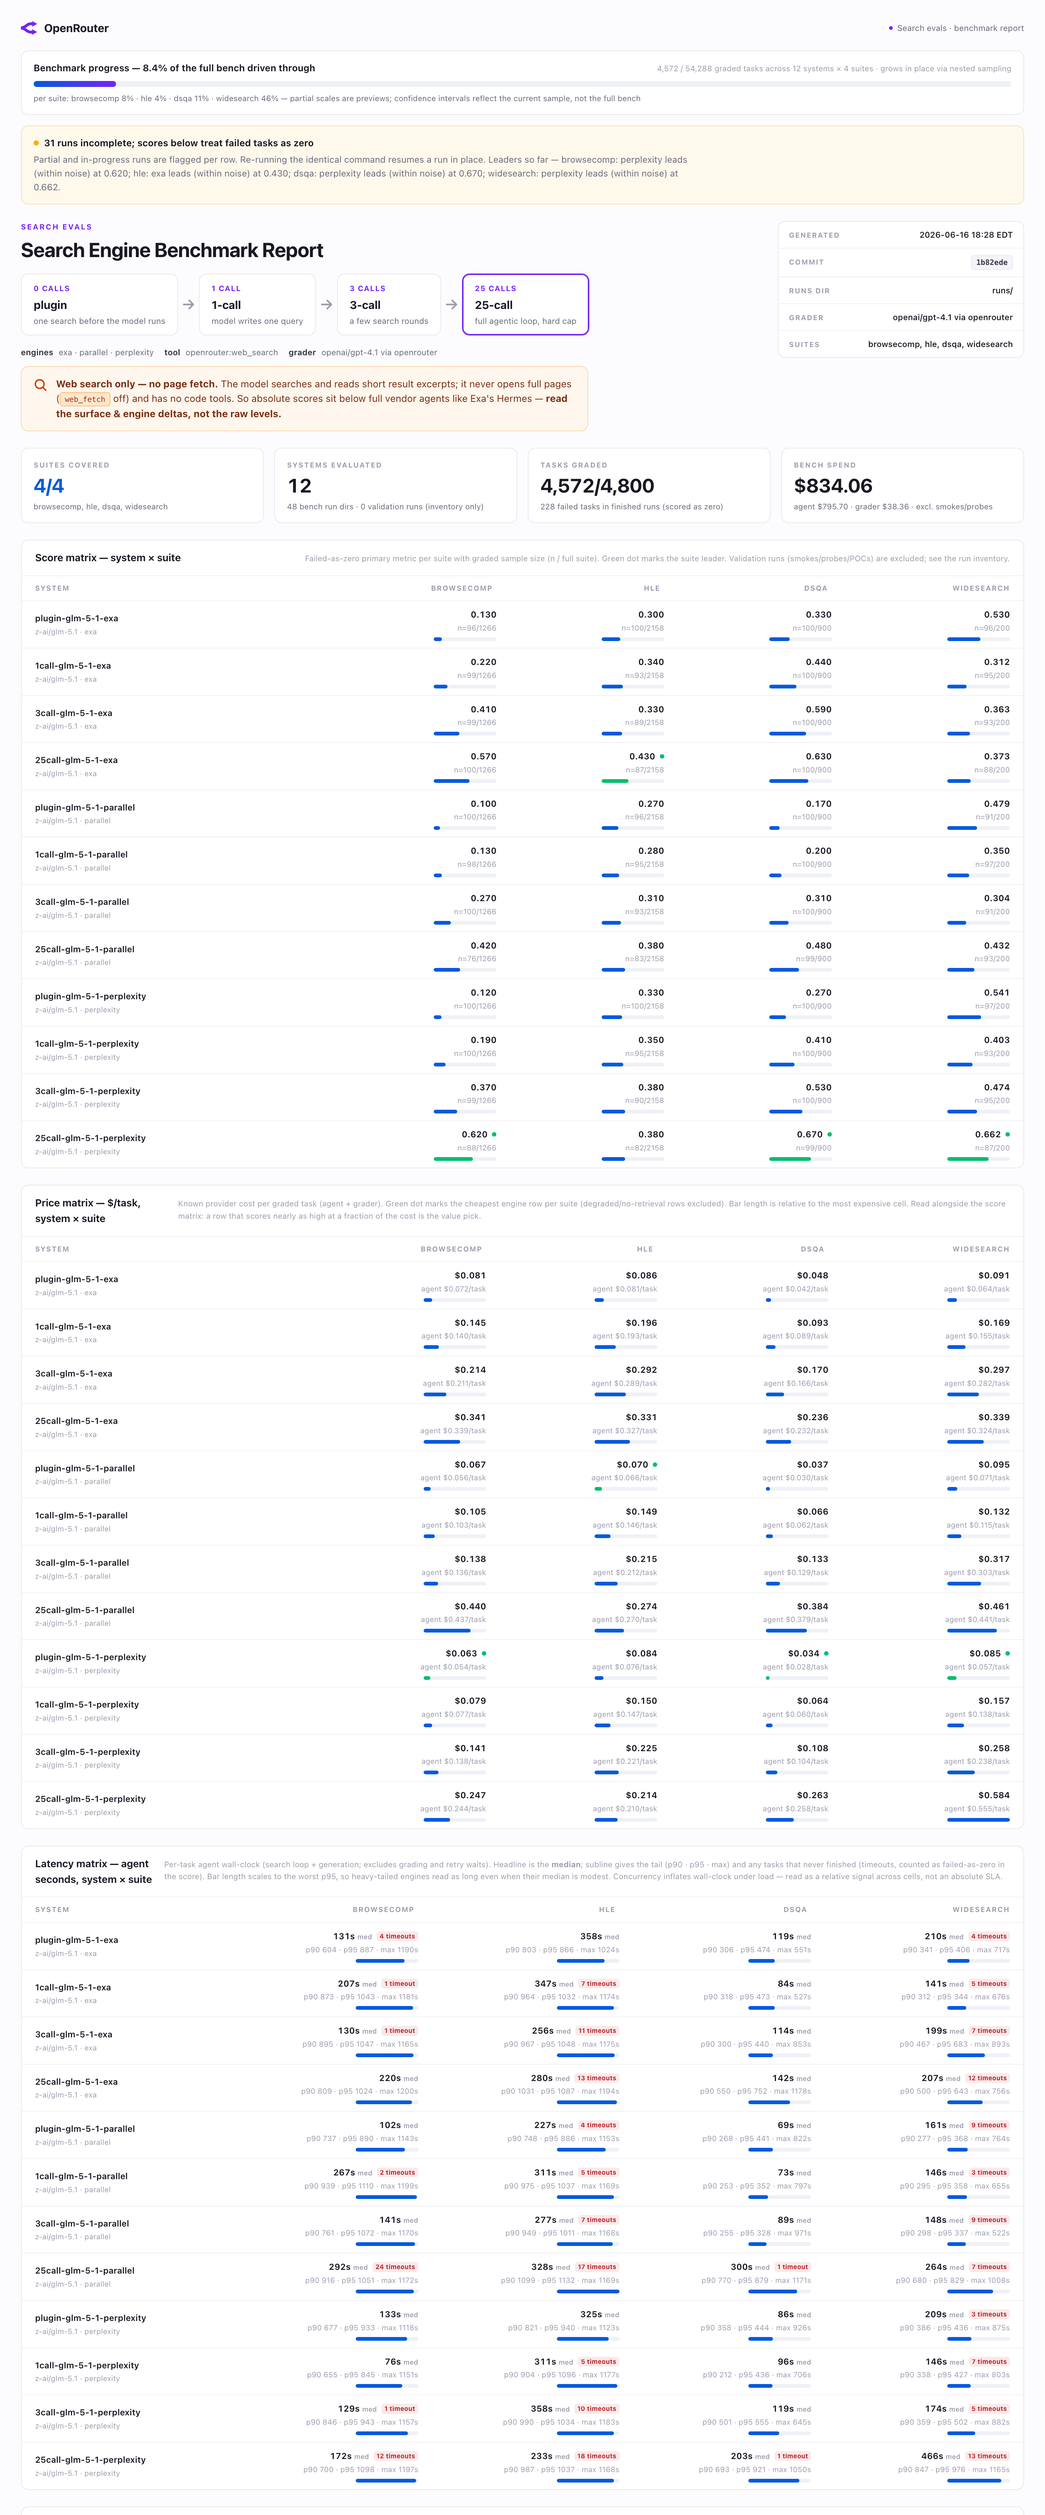
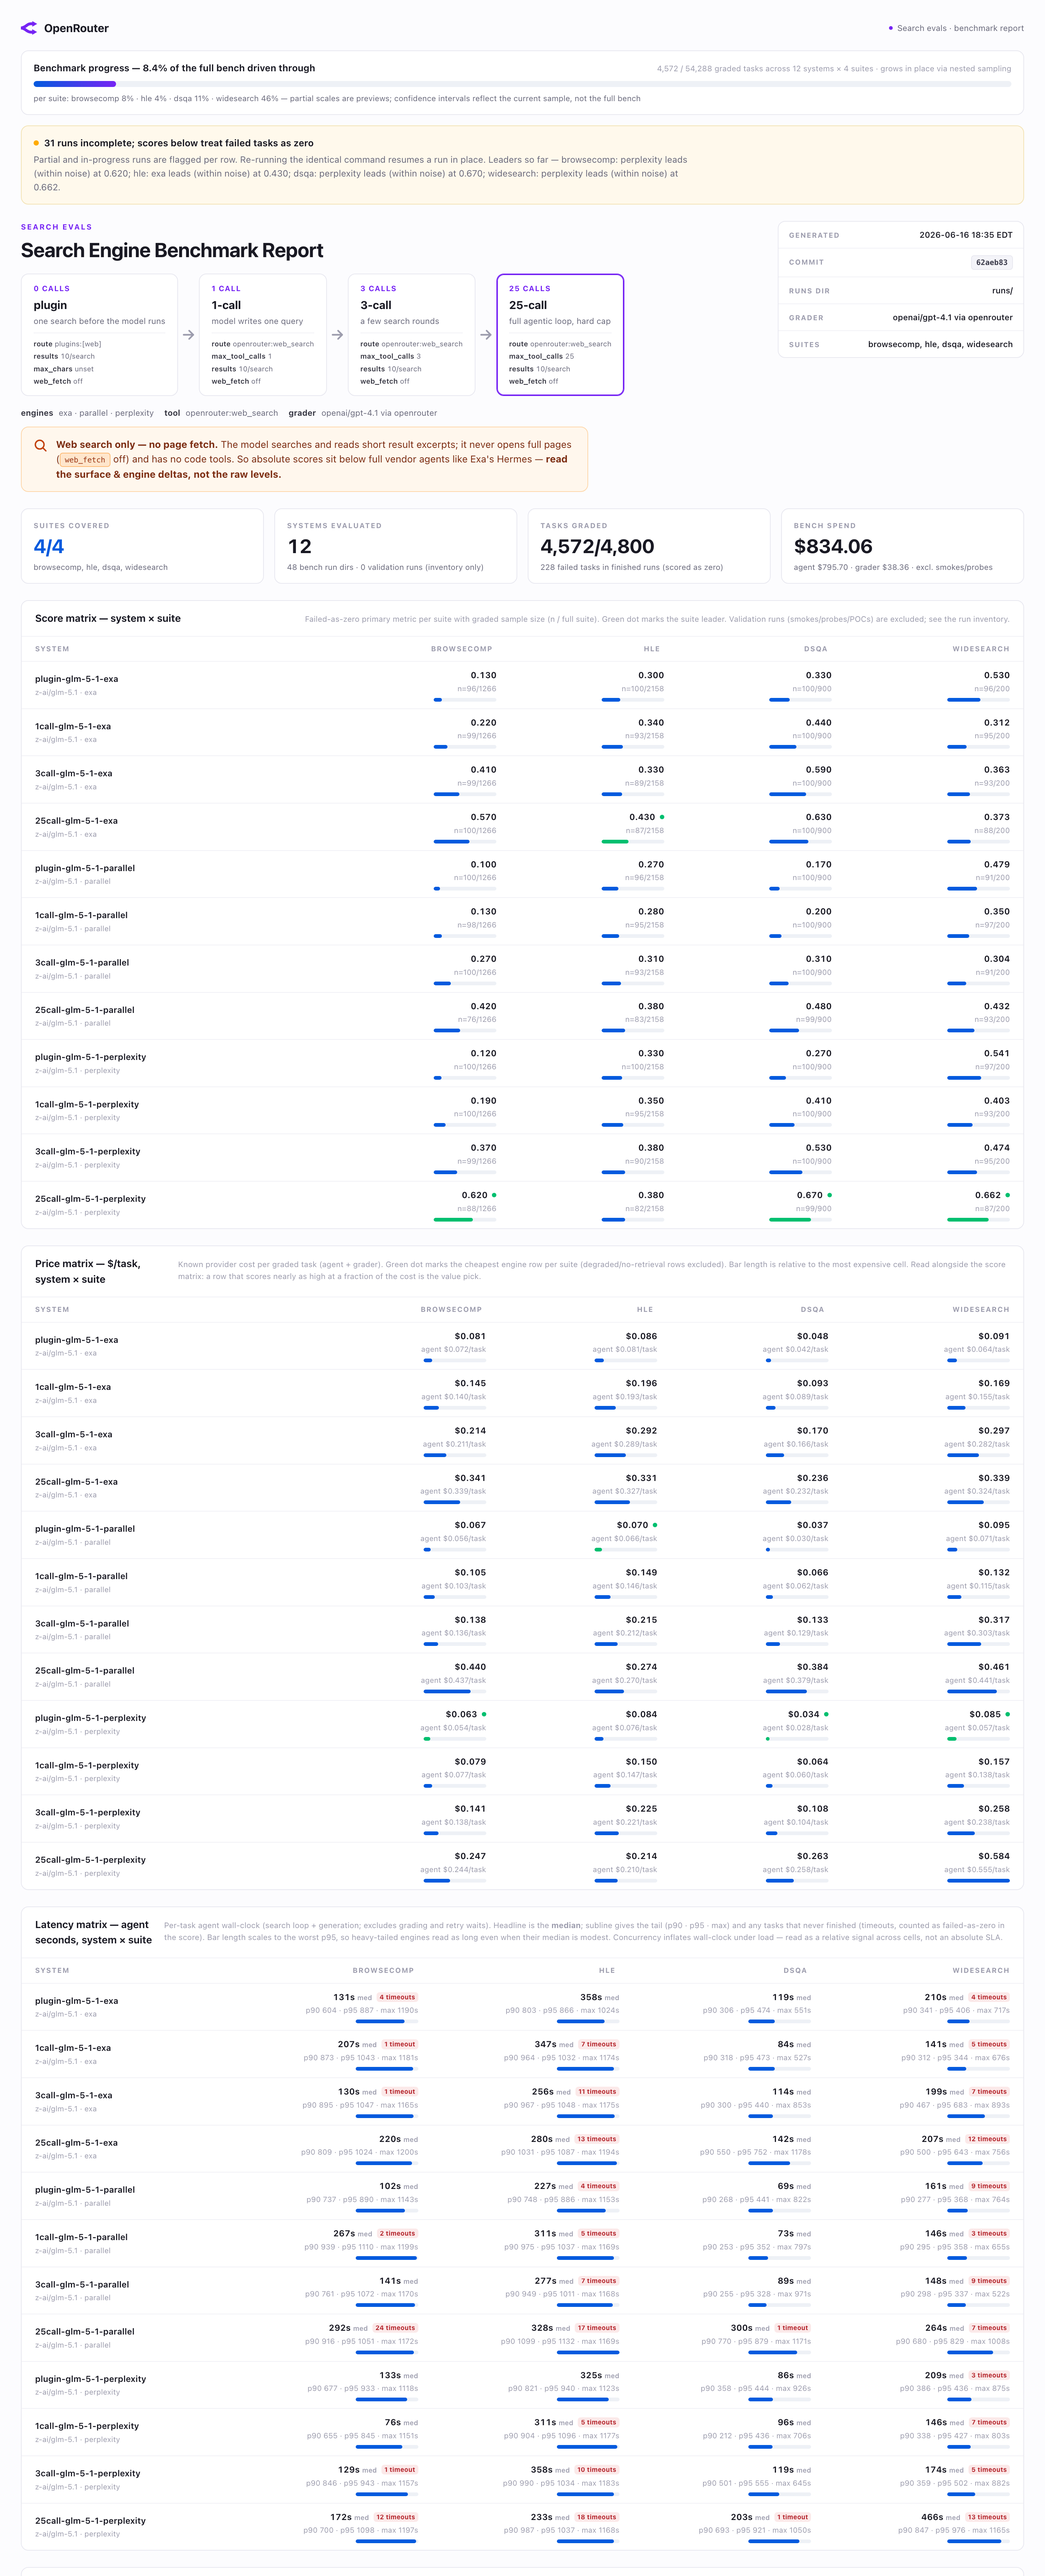
Show per-rung request params under each surface in the ladder
Each ladder rung now carries the actual request payload it sends: route
(plugins:[web] vs openrouter:web_search), max_tool_calls, results/search,
web_fetch off, max_chars unset. Makes the ladder self-documenting — what
changes between surfaces (route + call cap) and what's held constant. Values
match the run_config.json the runs actually used.

diff --git a/reports/latest/benchmark-report.html b/reports/latest/benchmark-report.html
@@ -47,6 +47,9 @@ h1{font-size:27px;font-weight:700;letter-spacing:-.02em;line-height:1.18;margin-
 .rung .name{font-size:15px;font-weight:700;color:var(--text);letter-spacing:-.01em}
 .rung .desc{font-size:11px;color:var(--muted);margin-top:3px;line-height:1.3}
 .rung .calls{font-size:10px;font-weight:700;color:var(--grape);letter-spacing:.08em;text-transform:uppercase;margin-bottom:3px}
+.rung .params{margin-top:8px;padding-top:7px;border-top:1px solid var(--border-soft);display:flex;flex-direction:column;gap:2px}
+.rung .params .pp{font-size:9.5px;color:var(--muted);font-variant-numeric:tabular-nums;white-space:nowrap}
+.rung .params .pp b{color:#33333F;font-weight:600}
 .ladder .arrow{display:flex;align-items:center;color:var(--faint);flex:0 0 auto;padding:0 3px}
 .ladder .arrow svg{width:22px;height:22px}
 .rung.peak{border-color:var(--grape);box-shadow:0 0 0 1px var(--grape) inset}
@@ -140,13 +143,17 @@ white-space:pre-wrap;word-break:break-all}
     <div class="eyebrow">Search evals</div>
     <h1>Search Engine Benchmark Report</h1>
     <div class="ladder">
-      <div class="rung"><div class="calls">0 calls</div><div class="name">plugin</div><div class="desc">one search before the model runs</div></div>
+      <div class="rung"><div class="calls">0 calls</div><div class="name">plugin</div><div class="desc">one search before the model runs</div>
+        <div class="params"><span class="pp"><b>route</b> plugins:[web]</span><span class="pp"><b>results</b> 10/search</span><span class="pp"><b>max_chars</b> unset</span><span class="pp"><b>web_fetch</b> off</span></div></div>
       <div class="arrow"><svg viewBox="0 0 24 24" fill="none" stroke="currentColor" stroke-width="2.4" stroke-linecap="round" stroke-linejoin="round" aria-hidden="true"><path d="M5 12h14M13 6l6 6-6 6"/></svg></div>
-      <div class="rung"><div class="calls">1 call</div><div class="name">1-call</div><div class="desc">model writes one query</div></div>
+      <div class="rung"><div class="calls">1 call</div><div class="name">1-call</div><div class="desc">model writes one query</div>
+        <div class="params"><span class="pp"><b>route</b> openrouter:web_search</span><span class="pp"><b>max_tool_calls</b> 1</span><span class="pp"><b>results</b> 10/search</span><span class="pp"><b>web_fetch</b> off</span></div></div>
       <div class="arrow"><svg viewBox="0 0 24 24" fill="none" stroke="currentColor" stroke-width="2.4" stroke-linecap="round" stroke-linejoin="round" aria-hidden="true"><path d="M5 12h14M13 6l6 6-6 6"/></svg></div>
-      <div class="rung"><div class="calls">3 calls</div><div class="name">3-call</div><div class="desc">a few search rounds</div></div>
+      <div class="rung"><div class="calls">3 calls</div><div class="name">3-call</div><div class="desc">a few search rounds</div>
+        <div class="params"><span class="pp"><b>route</b> openrouter:web_search</span><span class="pp"><b>max_tool_calls</b> 3</span><span class="pp"><b>results</b> 10/search</span><span class="pp"><b>web_fetch</b> off</span></div></div>
       <div class="arrow"><svg viewBox="0 0 24 24" fill="none" stroke="currentColor" stroke-width="2.4" stroke-linecap="round" stroke-linejoin="round" aria-hidden="true"><path d="M5 12h14M13 6l6 6-6 6"/></svg></div>
-      <div class="rung peak"><div class="calls">25 calls</div><div class="name">25-call</div><div class="desc">full agentic loop, hard cap</div></div>
+      <div class="rung peak"><div class="calls">25 calls</div><div class="name">25-call</div><div class="desc">full agentic loop, hard cap</div>
+        <div class="params"><span class="pp"><b>route</b> openrouter:web_search</span><span class="pp"><b>max_tool_calls</b> 25</span><span class="pp"><b>results</b> 10/search</span><span class="pp"><b>web_fetch</b> off</span></div></div>
     </div>
     <div class="paramline">
       <span class="param"><b>engines</b> exa · parallel · perplexity</span>
@@ -160,8 +167,8 @@ white-space:pre-wrap;word-break:break-all}
     raw levels.</b></div></div>
   </div>
   <div class="metacard">
-    <div class="row"><span class="k">Generated</span><span class="v">2026-06-16 18:28 EDT</span></div>
-    <div class="row"><span class="k">Commit</span><span class="v"><span class="chip">1b82ede</span></span></div>
+    <div class="row"><span class="k">Generated</span><span class="v">2026-06-16 18:35 EDT</span></div>
+    <div class="row"><span class="k">Commit</span><span class="v"><span class="chip">62aeb83</span></span></div>
     <div class="row"><span class="k">Runs dir</span><span class="v">runs/</span></div>
     <div class="row"><span class="k">Grader</span><span class="v">openai/gpt-4.1 via openrouter</span></div>
     <div class="row"><span class="k">Suites</span><span class="v">browsecomp, hle, dsqa, widesearch</span></div>
@@ -831,7 +838,7 @@ white-space:pre-wrap;word-break:break-all}
 </div>
 <div class="footer">
   <span>Generated locally by scripts/benchmark_report.py.</span>
-  <span>search_evals · 1b82ede</span>
+  <span>search_evals · 62aeb83</span>
 </div>
 </div>
 <script>

diff --git a/scripts/benchmark_report.py b/scripts/benchmark_report.py
@@ -1160,6 +1160,9 @@ h1{font-size:27px;font-weight:700;letter-spacing:-.02em;line-height:1.18;margin-
 .rung .name{font-size:15px;font-weight:700;color:var(--text);letter-spacing:-.01em}
 .rung .desc{font-size:11px;color:var(--muted);margin-top:3px;line-height:1.3}
 .rung .calls{font-size:10px;font-weight:700;color:var(--grape);letter-spacing:.08em;text-transform:uppercase;margin-bottom:3px}
+.rung .params{margin-top:8px;padding-top:7px;border-top:1px solid var(--border-soft);display:flex;flex-direction:column;gap:2px}
+.rung .params .pp{font-size:9.5px;color:var(--muted);font-variant-numeric:tabular-nums;white-space:nowrap}
+.rung .params .pp b{color:#33333F;font-weight:600}
 .ladder .arrow{display:flex;align-items:center;color:var(--faint);flex:0 0 auto;padding:0 3px}
 .ladder .arrow svg{width:22px;height:22px}
 .rung.peak{border-color:var(--grape);box-shadow:0 0 0 1px var(--grape) inset}
@@ -1811,13 +1814,17 @@ def build_report_html(records: list[RunRecord], runs_dir: Path, title: str, note
     <div class="eyebrow">Search evals</div>
     <h1>{esc(title)}</h1>
     <div class="ladder">
-      <div class="rung"><div class="calls">0 calls</div><div class="name">plugin</div><div class="desc">one search before the model runs</div></div>
+      <div class="rung"><div class="calls">0 calls</div><div class="name">plugin</div><div class="desc">one search before the model runs</div>
+        <div class="params"><span class="pp"><b>route</b> plugins:[web]</span><span class="pp"><b>results</b> 10/search</span><span class="pp"><b>max_chars</b> unset</span><span class="pp"><b>web_fetch</b> off</span></div></div>
       <div class="arrow">{ARROW_SVG}</div>
-      <div class="rung"><div class="calls">1 call</div><div class="name">1-call</div><div class="desc">model writes one query</div></div>
+      <div class="rung"><div class="calls">1 call</div><div class="name">1-call</div><div class="desc">model writes one query</div>
+        <div class="params"><span class="pp"><b>route</b> openrouter:web_search</span><span class="pp"><b>max_tool_calls</b> 1</span><span class="pp"><b>results</b> 10/search</span><span class="pp"><b>web_fetch</b> off</span></div></div>
       <div class="arrow">{ARROW_SVG}</div>
-      <div class="rung"><div class="calls">3 calls</div><div class="name">3-call</div><div class="desc">a few search rounds</div></div>
+      <div class="rung"><div class="calls">3 calls</div><div class="name">3-call</div><div class="desc">a few search rounds</div>
+        <div class="params"><span class="pp"><b>route</b> openrouter:web_search</span><span class="pp"><b>max_tool_calls</b> 3</span><span class="pp"><b>results</b> 10/search</span><span class="pp"><b>web_fetch</b> off</span></div></div>
       <div class="arrow">{ARROW_SVG}</div>
-      <div class="rung peak"><div class="calls">25 calls</div><div class="name">25-call</div><div class="desc">full agentic loop, hard cap</div></div>
+      <div class="rung peak"><div class="calls">25 calls</div><div class="name">25-call</div><div class="desc">full agentic loop, hard cap</div>
+        <div class="params"><span class="pp"><b>route</b> openrouter:web_search</span><span class="pp"><b>max_tool_calls</b> 25</span><span class="pp"><b>results</b> 10/search</span><span class="pp"><b>web_fetch</b> off</span></div></div>
     </div>
     <div class="paramline">
       <span class="param"><b>engines</b> exa · parallel · perplexity</span>
